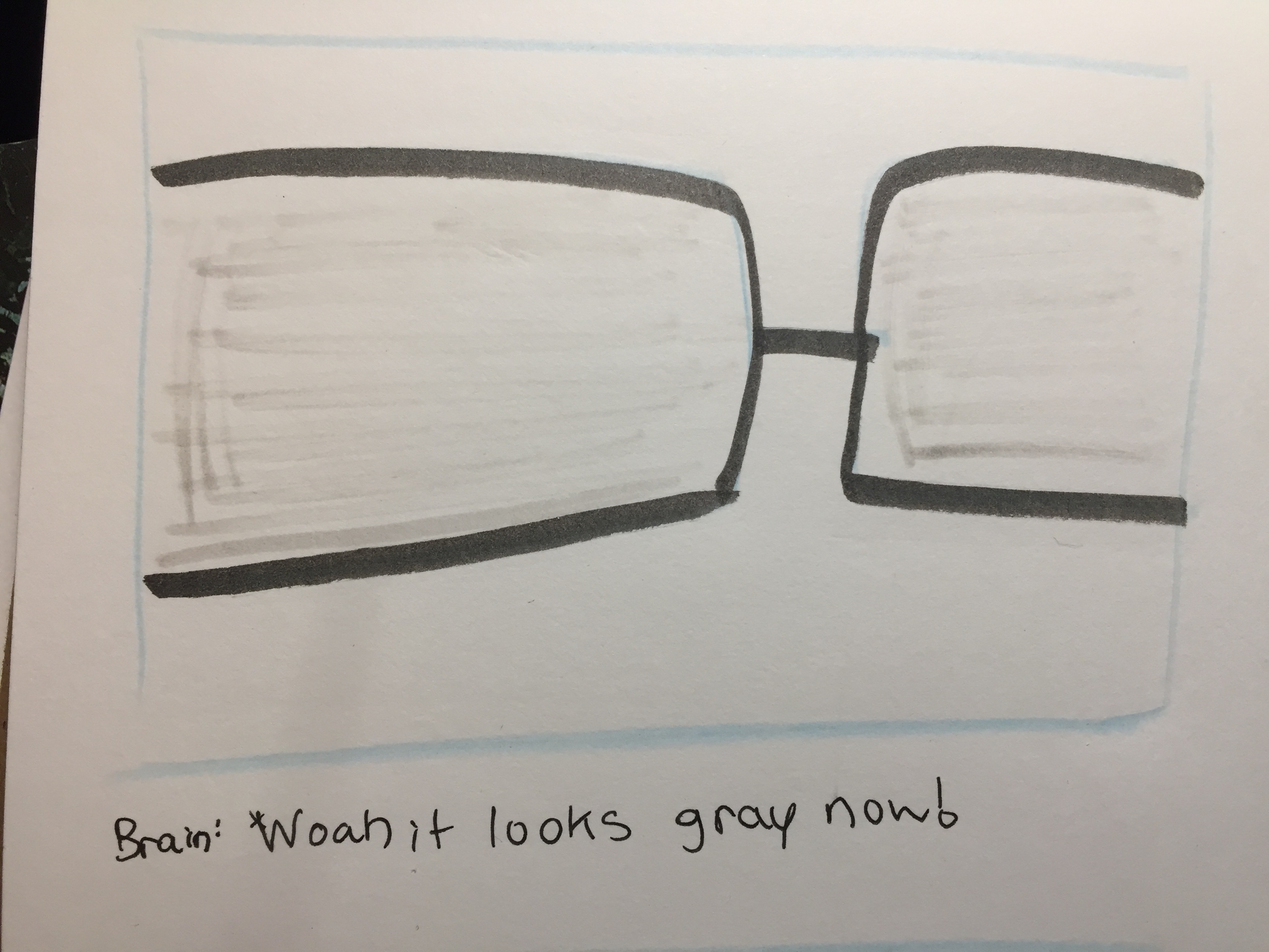
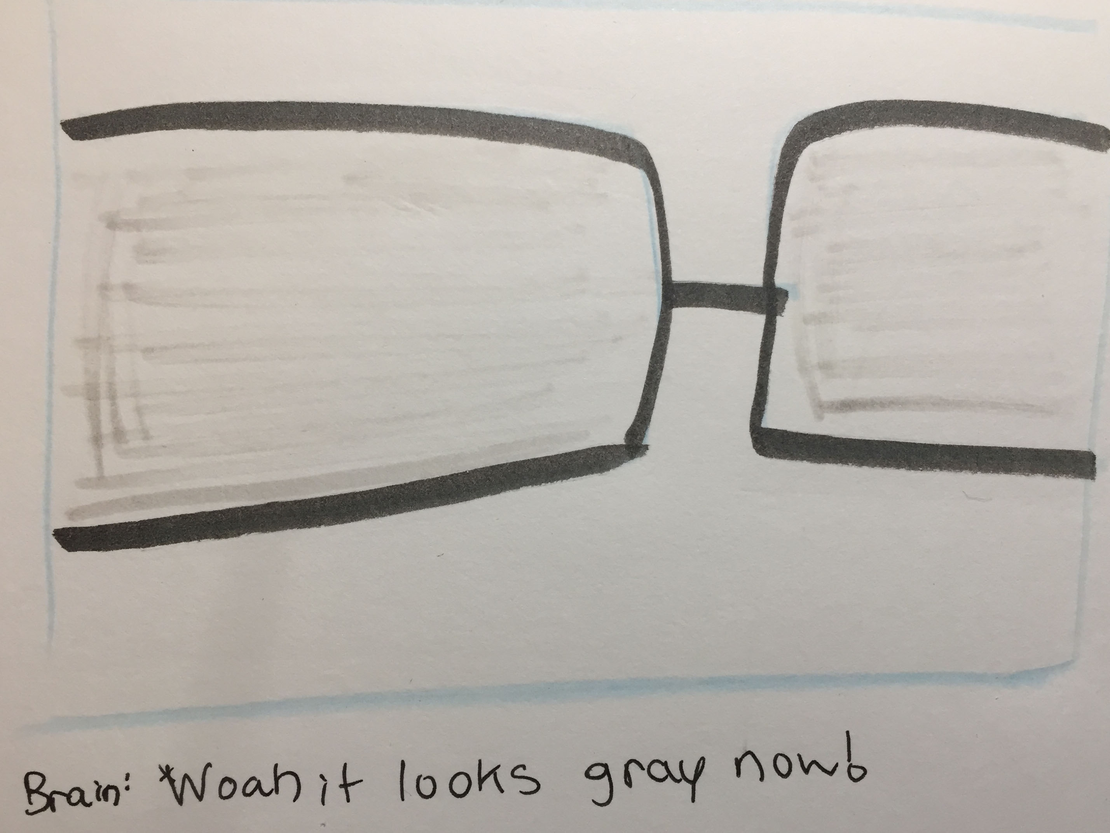
cropping images

diff --git a/locihouse.html b/locihouse.html
@@ -88,7 +88,7 @@ Kevin Ta: Programming, Writing, Voice Acting, Producer
 		<img src="img/brain_house/storyboard/occ-init.JPG" class="imgcrop1" style="width:70%; height:70%">
 		<img src="img/brain_house/storyboard/take_occ_glasses.JPG" class="imgcrop1" style="width:70%; height:70%">
 		<img src="img/brain_house/storyboard/button_trigger.JPG" class="imgcrop1" style="width:70%; height:70%">
-		<img src="img/brain_house/storyboard/grayglasses.JPG" class="imgcrop1" style="width:30%; height:70%">
+		<img src="img/brain_house/storyboard/grayglasses.JPG" class="imgcrop1" style="width:70%; height:70%">
 		<img src="img/brain_house/storyboard/rosecoloredglasses.JPG" class="imgcrop1" style="width:70%; height:70%">
     </div>
     <h4>Scene 2</h4>
@@ -100,14 +100,14 @@ Kevin Ta: Programming, Writing, Voice Acting, Producer
 		<p class="text">Here are some original iterations of the storyboard before it became a loft.</p>
 		
 		<h3>Project Management</h3>
-   <a href="files/design_document_final.pdf" >  <h3 style="background:aliceblue; border-radius: 1em; border: 10px solid #8797a6;">Final Documentation</h3></a>
+   <a href="files/design_document_final.pdf">  <p style="background:#8797a6; border-radius: 1em; border: 10px solid #8797a6; color:white; margin:4%; padding-bottom: 4%; padding-top: 4%; padding-left:4%; padding-right:4%; font-size:3em;">Final Documentation</p></a>
 		<p class="text"> I was charge of producing and project managing for the team as well. Here is the final documentation that my team created.</p>
 		    <br><br>
 			<h3>3D Model and Animation</h3>
 			<div class="flexbox_gallery">
-		<img src="img/brain_house/brain.png" style="width:100%; height:100%">
+		<img src="img/brain_house/brain.png" style="width:80%; height:80%">
 <!--    <a href="pianorender.html">-->
-    <img src="img/brain_house/piano/painoss2.png" style="width:100%; height:100%"><!--</a>-->
+    <img src="img/brain_house/piano/painoss2.png" style="width:80%; height:80%"><!--</a>-->
     </div>
 
 			<p class="text"> I created the 3D models of the characters and playable objects.</p>

diff --git a/chemvr.html b/chemvr.html
@@ -131,6 +131,7 @@ The room was design to be a single space that would be easy to walk around. In H
       <h3>Mobile Controller Diagram</h3>
   <p class="text">  Here is one of the mobile controller diagrams I created the Canbor mobile controller. </p>
     <img src="img/chemvr/chemvr_mobile_controller_diagram.jpg" style="width:60%; height:60%">
+    
 <!--    <img src="img/chemvr/chemvr_mobile_controller_diagram.jpg" style="width:50%; height:50%">-->
     <!--<u><strong>Canbor Mobile Controller Diagram</strong></a></u><br><br>-->
 
